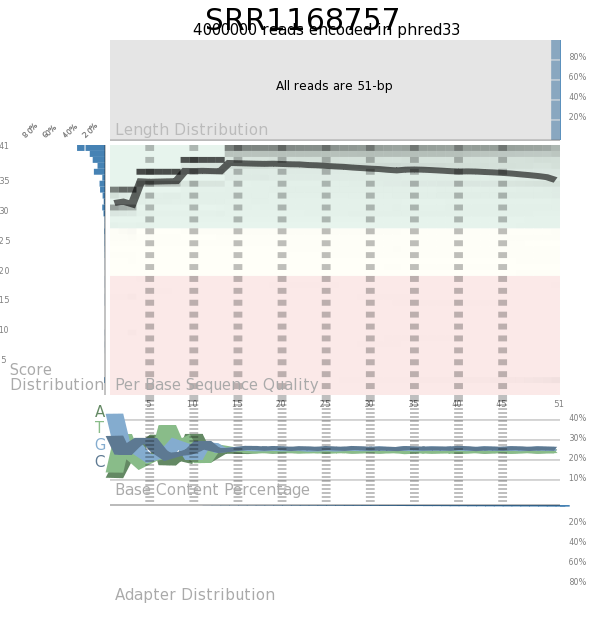
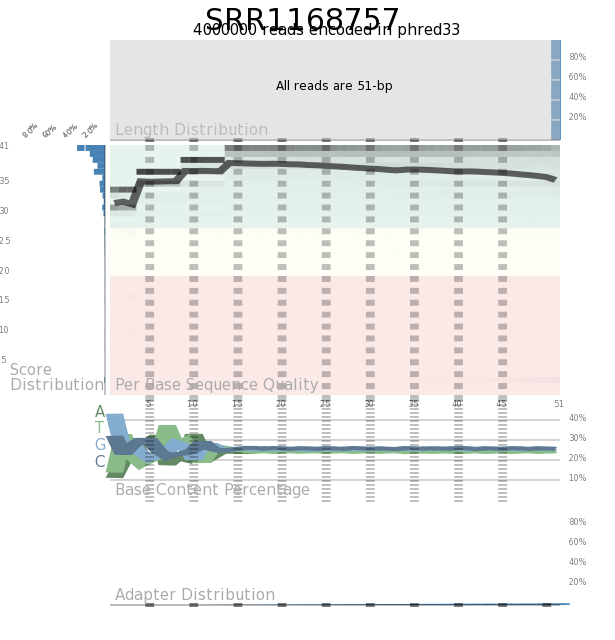
Flip adapter graph

diff --git a/src/draw_svg.c b/src/draw_svg.c
@@ -213,6 +213,32 @@ void draw_svg_distro(int length, fpair_t* p,
                    svg_attr("stroke-width", "%f", 0.5));
 
 
+    /* Find a tick step that is
+     * - at least 5
+     * - divisible by 5,
+     * - creates 10 ticks */
+    int step = length/10;
+    step = (step /5 )*5;
+    if (step < 5) step = 5;
+
+
+
+    for (i = step; i <= length - step; i += step){
+        svg_simple_tag("line", 7,
+                       svg_attr("x1", "%f", i-0.5),
+                       svg_attr("y1", "%d", -2),
+                       svg_attr("x2", "%f", i-0.5),
+                       svg_attr("y2", "%d", 2),
+                       svg_attr("stroke", "%s", "black"),
+                       svg_attr("stroke-opacity", "%f", 0.5),
+                       svg_attr("vector-effect", "%s", "non-scaling-stroke")
+                       );
+
+
+
+    }
+
+
 
     svg_end_tag("g");
 
@@ -782,7 +808,7 @@ void draw_svg_adapter(sequence_data * data, int translate_x, int translate_y){
     original_size = (fpair_t){data->max_length, 100};
     final_size    = (fpair_t){GRAPH_WIDTH, PERF_SIZE};
     translate     = (fpair_t){translate_x, translate_y};
-    flip          = (fpair_t){0,0};
+    flip          = (fpair_t){0,1};
 
     draw_svg_distro(data->max_length+4, points,
                     original_size, final_size, flip,
